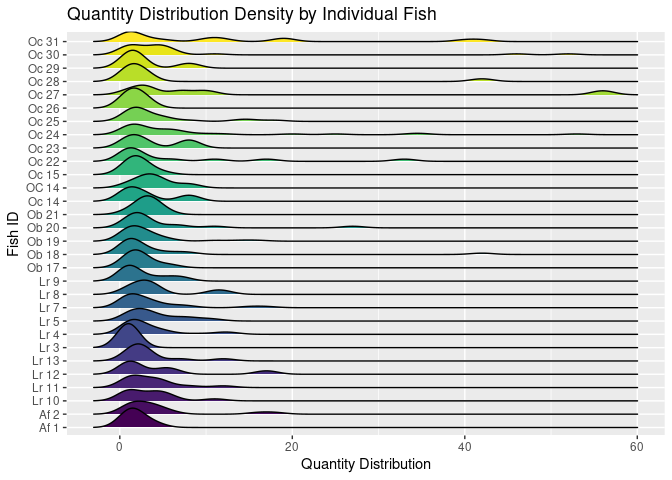
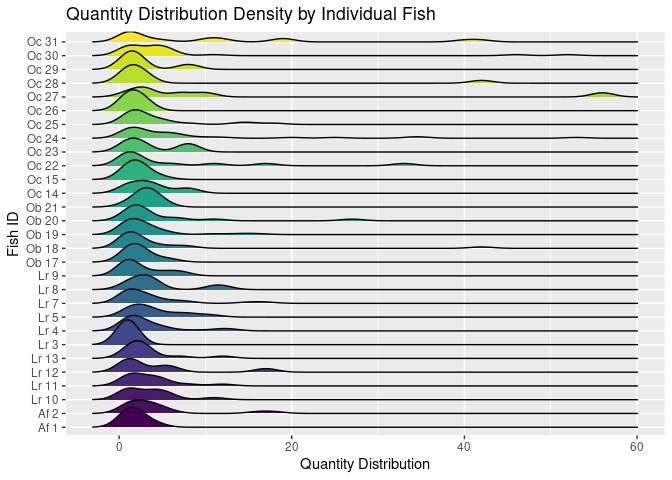
Fix fish_column

Changed region(s): [[0.0938, 0.0, 0.9688, 0.9375], [0.0312, 0.0625, 0.0938, 0.9062], [0.4375, 0.9375, 0.6562, 1.0]]

diff --git a/plastics_analysis.md b/plastics_analysis.md
@@ -54,7 +54,8 @@ fish_microplastics <- fish_microplastics %>%
   mutate(sieve_size = str_extract(sieve_size, pattern = "[:digit:]+")) %>%
   mutate(sieve_size = case_when(sieve_size == "LG" ~ 777,
           TRUE ~ as.numeric(sieve_size))) %>%
-  mutate(hot_needle = case_when(hot_needle == "yes" ~ TRUE, hot_needle == "no" ~ FALSE))
+  mutate(hot_needle = case_when(hot_needle == "yes" ~ TRUE, hot_needle == "no" ~ FALSE)) %>%
+  mutate(fish_id = case_when(fish_id == "OC 14" ~ "Oc 14", TRUE ~ fish_id))
 ```
 
 ``` r
@@ -188,7 +189,7 @@ fish_microplastics %>%
        title = "Quantity Distribution Density by Individual Fish")
 ```
 
-    ## Picking joint bandwidth of 1.34
+    ## Picking joint bandwidth of 1.35
 
 <img src="plastics_analysis_files/figure-gfm/quant-density-1.png" alt="In this ridgeline plot, we can see the different individual fish that were collected and the quantity of microplastics within them. We can see that most of the fish had a similar density of microplastics at the lower end of the scale, with some individuals having spikes of concentration at higher levels."  />
 
